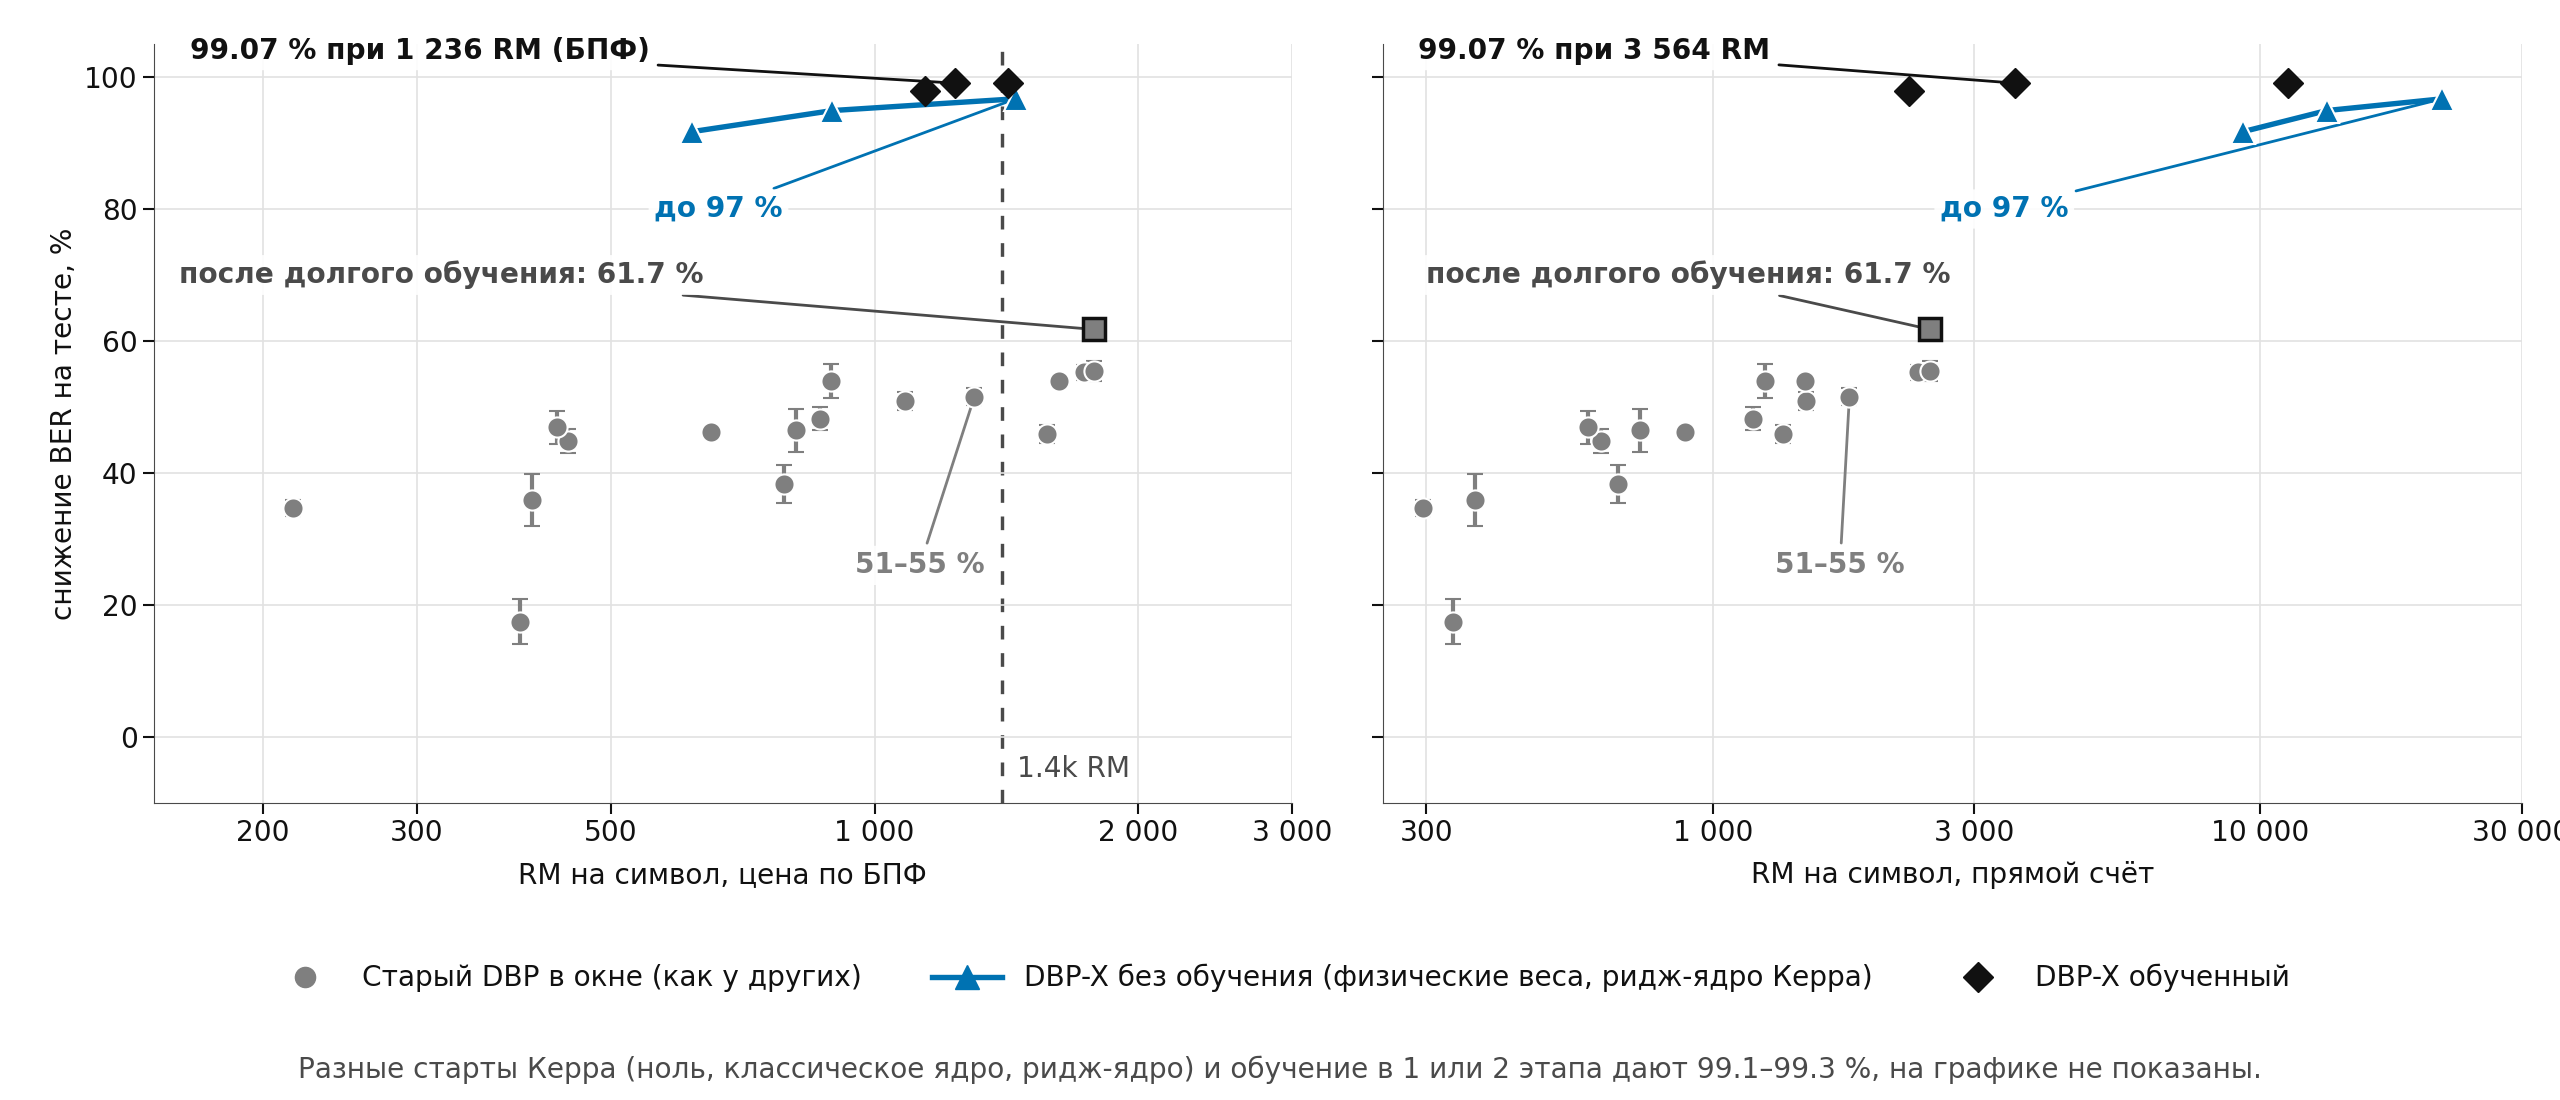
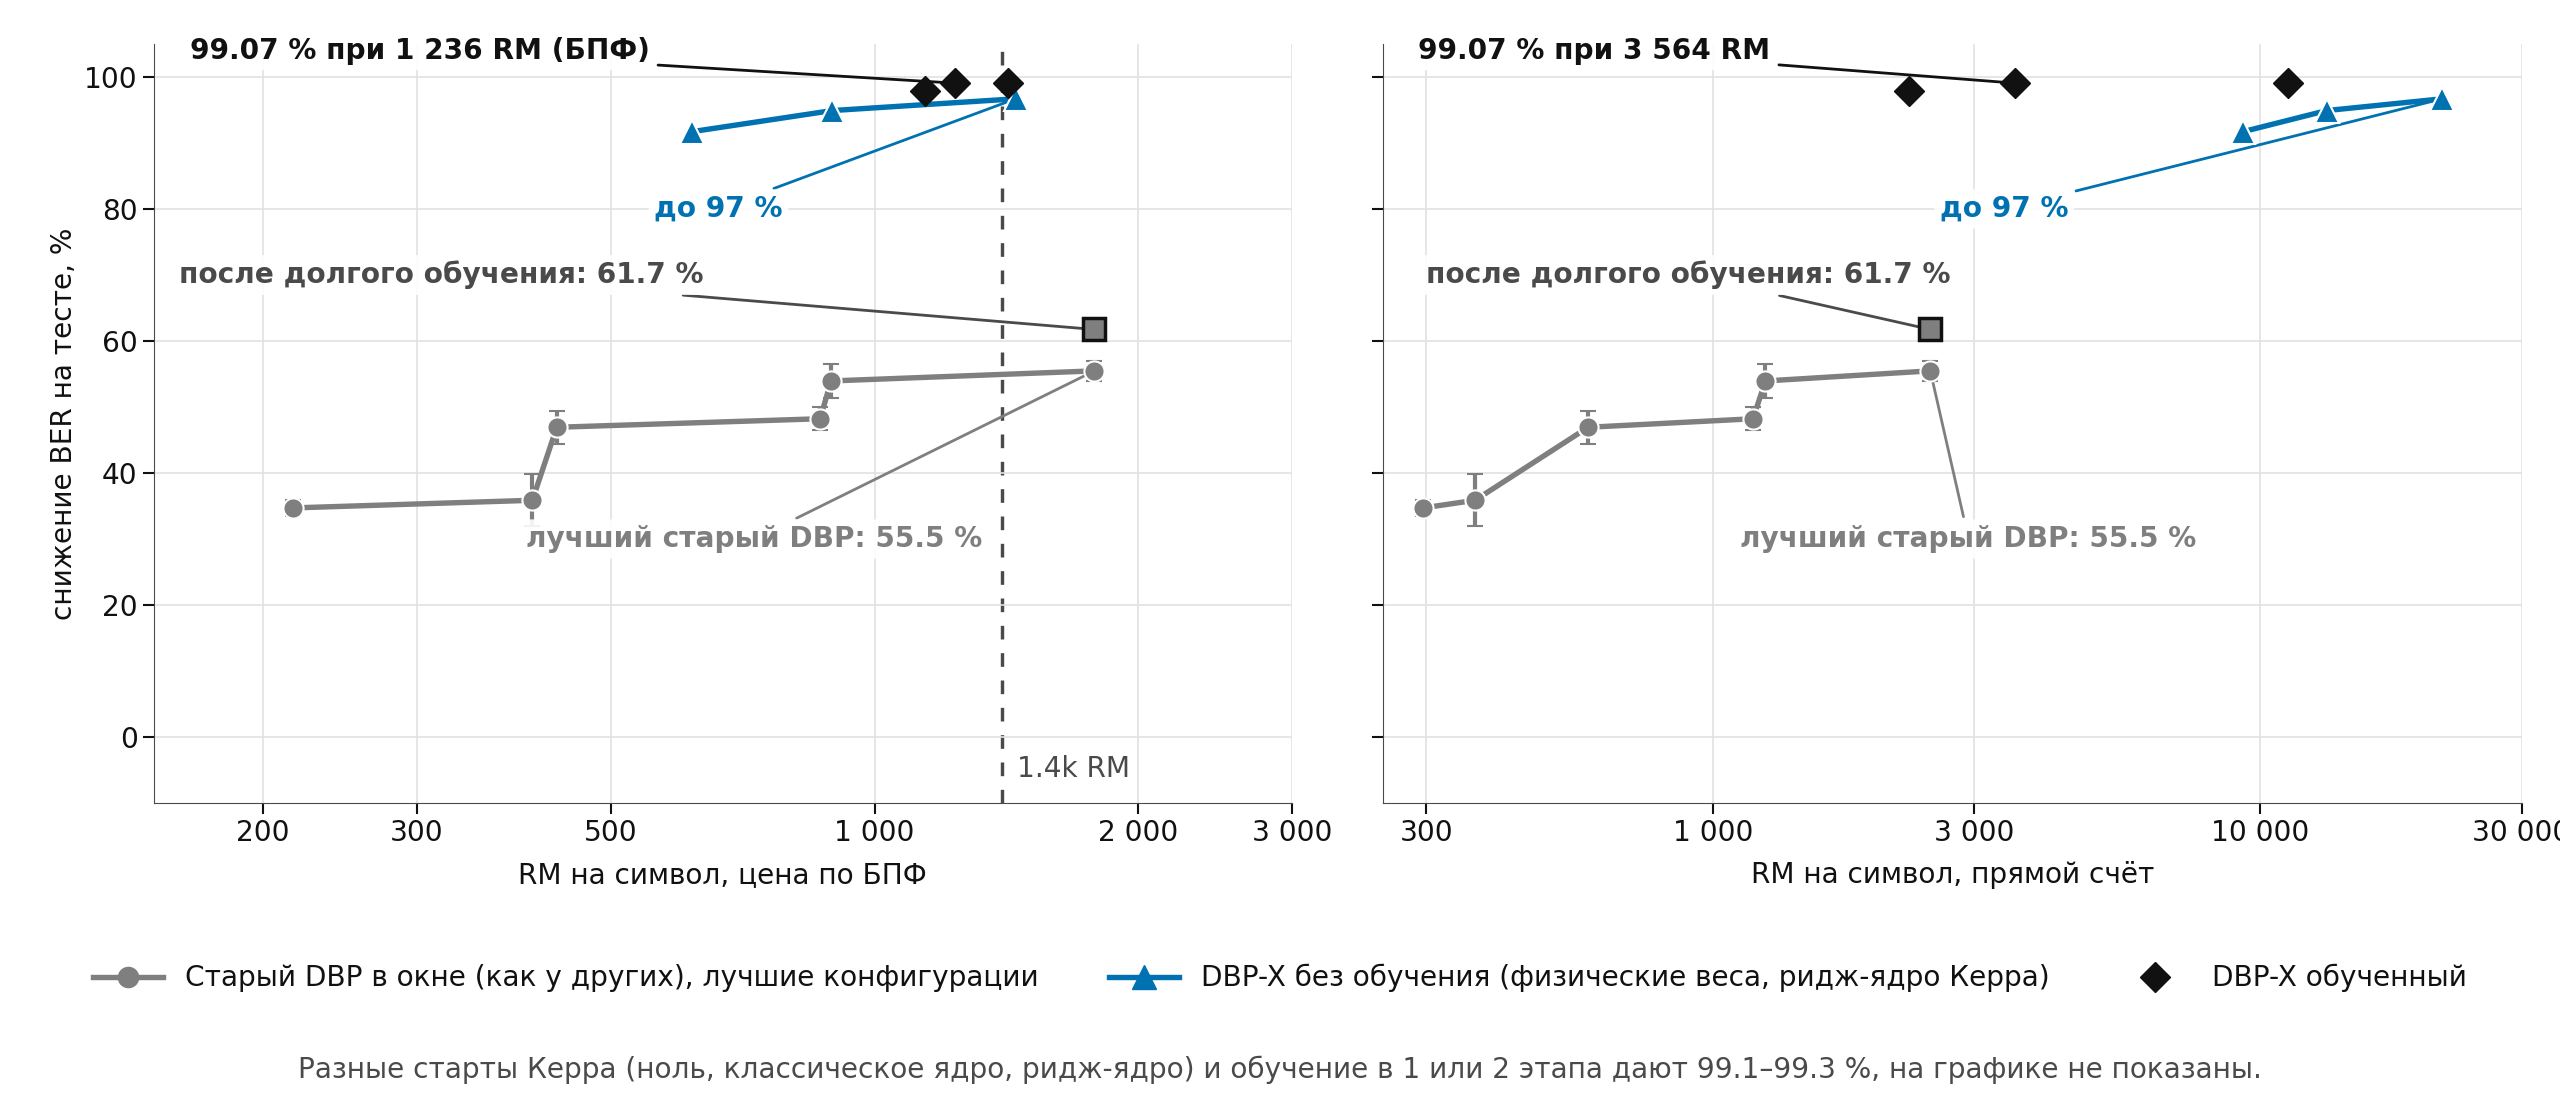
E050: слайд — старый DBP в окне только верхней границей по цене (выбор по валидации); в таблице точек пометка границы

diff --git a/experiments/E050_dbpx_physical/make_slide_path.py b/experiments/E050_dbpx_physical/make_slide_path.py
@@ -19,17 +19,34 @@ PX = 72 / 100                                   # dpi 100: points per pixel
 rows = []
 
 
-def keep(series, fft, direct, red, spread, source):
-    for f, d, y, s in zip(fft, direct, red, spread):
-        rows.append({"series": series, "rm_fft": float(f), "rm_direct": float(d), "test_reduction_pct": float(y),
-                     "test_std_pct": None if s is None else float(s), "source": source})
+def keep(series, fft, direct, red, spread, source, env_fft=None, env_direct=None, variant=None):
+    n = len(list(red))
+    env_fft = [None] * n if env_fft is None else env_fft
+    env_direct = [None] * n if env_direct is None else env_direct
+    variant = [None] * n if variant is None else variant
+    for f, d, y, s, ef, ed, v in zip(fft, direct, red, spread, env_fft, env_direct, variant):
+        rows.append({"series": series, "config": v, "rm_fft": float(f), "rm_direct": float(d), "test_reduction_pct": float(y),
+                     "test_std_pct": None if s is None else float(s), "in_envelope_fft": ef, "in_envelope_direct": ed,
+                     "source": source})
+
+
+def envelope(frame: pd.DataFrame, col: str) -> pd.Series:
+    """Upper envelope over cost: a configuration is on it if its validation reduction beats every cheaper one
+    (selection by validation, as E056; test values are drawn)."""
+    best, on = -1e9, pd.Series(False, index=frame.index)
+    for i, r in frame.sort_values([col, "val_mean"], ascending=[True, False]).iterrows():
+        if r.val_mean > best:
+            best, on[i] = r.val_mean, True
+    return on
 
 
 # (a) windowed DBP: E050 windowed_dbp_summary.csv, E050 reference (10 seeds) where it exists, else E028 grid a (3 seeds)
 w = pd.read_csv(E050 / "results/windowed_dbp_summary.csv")
 w = w.assign(_p=(w.source != "E050 ref").astype(int)).sort_values("_p").drop_duplicates(["n_steps", "L", "R"])
+w["env_fft"], w["env_direct"] = envelope(w, "rm_xiao"), envelope(w, "rm_project")
 keep("Старый DBP в окне", w.rm_xiao, w.rm_project, w.test_mean, w.test_std,
-     "E050/results/windowed_dbp_summary.csv (E050 ref where present, else E028 a); rm_xiao, rm_project, test_mean ± test_std")
+     "E050/results/windowed_dbp_summary.csv (E050 ref where present, else E028 a); rm_xiao, rm_project, test_mean ± test_std; "
+     "envelope by validation (val_mean)", w.env_fft, w.env_direct, w.variant)
 # long training of the same DBP: E028 a_summary.csv, stage a_long, 400 000 steps; FFT cost of the same configuration
 a28 = pd.read_csv(ROOT / "E028_dbp_depth_layerwise/results/a_summary.csv")
 lg = a28[(a28.stage == "a_long") & (a28.variant == "dbp_Ns32_L31_R15")].iloc[0]
@@ -65,8 +82,12 @@ def note(ax, text, xy, xytext, color, ha="left"):
 
 for ax, col_w, col_fs, col_tr, xl in ((axes[0], "rm_xiao", "rm_fft_4", "rm_fft_4", "RM на символ, цена по БПФ"),
                                        (axes[1], "rm_project", "rm_direct_4", "rm_direct_4", "RM на символ, прямой счёт")):
-    ax.errorbar(w[col_w], w.test_mean, yerr=w.test_std, fmt="o", color=GREY, ms=MS, elinewidth=3, capsize=6,
+    e = w[w["env_fft" if col_w == "rm_xiao" else "env_direct"]].sort_values(col_w)
+    ax.errorbar(e[col_w], e.test_mean, yerr=e.test_std, fmt="-o", color=GREY, lw=LW, ms=MS, elinewidth=3, capsize=6,
                 capthick=3, mec="white", mew=1.5, zorder=3)
+    top = e.loc[e.test_mean.idxmax()]
+    note(ax, f"лучший старый DBP: {top.test_mean:.1f} %", (top[col_w], top.test_mean),
+         (400 if col_w == "rm_xiao" else top[col_w] * 0.45, 30), GREY)
     x_long = lg_fft if col_w == "rm_xiao" else lg.rm
     ax.plot([x_long], [lg.test_mean], "s", color=GREY, ms=MS * 1.1, mec=INK, mew=2.5, zorder=4)
     ax.plot(fs[col_fs], fs.reduction_mean_over_files, color=BLUE, lw=LW, marker="^", ms=MS * 1.15, mec="white",
@@ -80,7 +101,8 @@ for ax, col_w, col_fs, col_tr, xl in ((axes[0], "rm_xiao", "rm_fft_4", "rm_fft_4
     ax.tick_params(labelsize=28 * PX, width=1.5, length=8)
     for s in ("top", "right"):
         ax.spines[s].set_visible(False)
-    note(ax, "после долгого обучения: 61.7 %", (x_long, lg.test_mean), (x_long * (0.09 if col_w == "rm_xiao" else 0.12), 70), INK2)
+    note(ax, f"после долгого обучения: {lg.test_mean:.1f} %", (x_long, lg.test_mean),
+         (x_long * (0.09 if col_w == "rm_xiao" else 0.12), 70), INK2)
 
 a, b = axes
 a.set_xlim(150, 3000)
@@ -91,8 +113,6 @@ a.set_ylim(-10, 105)
 a.set_ylabel("снижение BER на тесте, %", fontsize=28 * PX)
 a.axvline(1400, color=INK2, lw=3 * PX + 0.3, ls=(0, (4, 4)), zorder=0)
 a.text(1400 * 1.04, -6, "1.4k RM", fontsize=28 * PX, color=INK2)
-note(a, "51–55 %", (1300, 51.5), (950, 26), GREY)
-note(b, "51–55 %", (1776, 51.5), (1300, 26), GREY)
 note(a, "до 97 %", (float(fs.rm_fft_4.iloc[-1]), float(fs.reduction_mean_over_files.iloc[-1])), (560, 80), BLUE)
 note(b, "до 97 %", (float(fs.rm_direct_4.iloc[-1]), float(fs.reduction_mean_over_files.iloc[-1])), (2600, 80), BLUE)
 note(a, f"{t63.test_mean:.2f} % при {t63.rm_fft_4:,.0f} RM (БПФ)".replace(",", " "), (t63.rm_fft_4, t63.test_mean),
@@ -101,7 +121,7 @@ note(b, f"{t63.test_mean:.2f} % при {t63.rm_direct_4:,.0f} RM".replace(",", "
      (290, 104), INK)
 
 handles = [
-    Line2D([], [], color=GREY, lw=0, marker="o", ms=MS, label="Старый DBP в окне (как у других)"),
+    Line2D([], [], color=GREY, lw=LW, marker="o", ms=MS, label="Старый DBP в окне (как у других), лучшие конфигурации"),
     Line2D([], [], color=BLUE, lw=LW, marker="^", ms=MS * 1.15, label="DBP-X без обучения (физические веса, ридж-ядро Керра)"),
     Line2D([], [], color=INK, lw=0, marker="D", ms=MS * 1.05, label="DBP-X обученный"),
 ]
